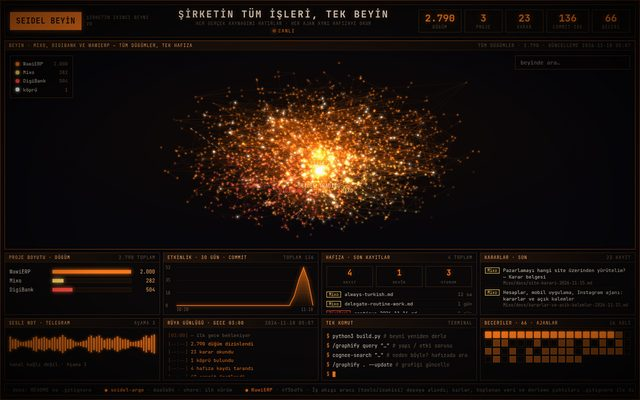
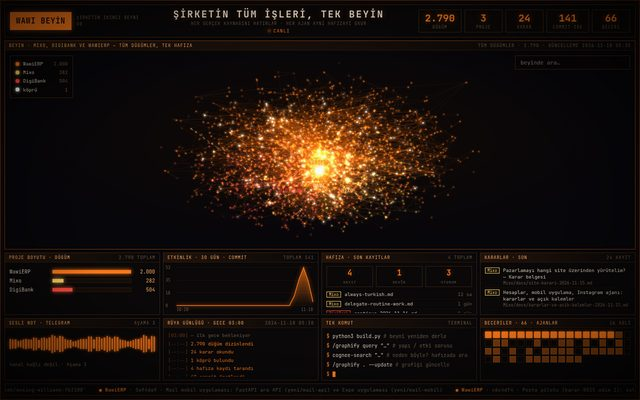
Beyin kartı: Seidel Beyin → Wawi Beyin

diff --git a/index.html b/index.html
@@ -229,7 +229,7 @@ footer{margin-top:72px;padding-top:20px;border-top:1px solid var(--line);display
       <a class="card" href="https://seidel-beyin-production.up.railway.app/" target="_blank" rel="noopener">
         <div class="shot"><img src="shots/beyin.jpg" alt="" loading="lazy" width="640" height="400"></div>
         <div class="top"><span>Hafıza</span><span class="live">Yayında</span></div>
-        <h3>Seidel Beyin</h3>
+        <h3>Wawi Beyin</h3>
         <p>Şirketin ikinci beyni: Mixo, DigiBank ve WawiERP'nin bilgi grafiği, kararları ve son işleri tek ekranda. Her düğüm kaynağını gösterir; her gece yenilenir.</p>
         <div class="url"><i>seidel-beyin-production.up.railway.app</i><span>↗</span></div>
       </a>
